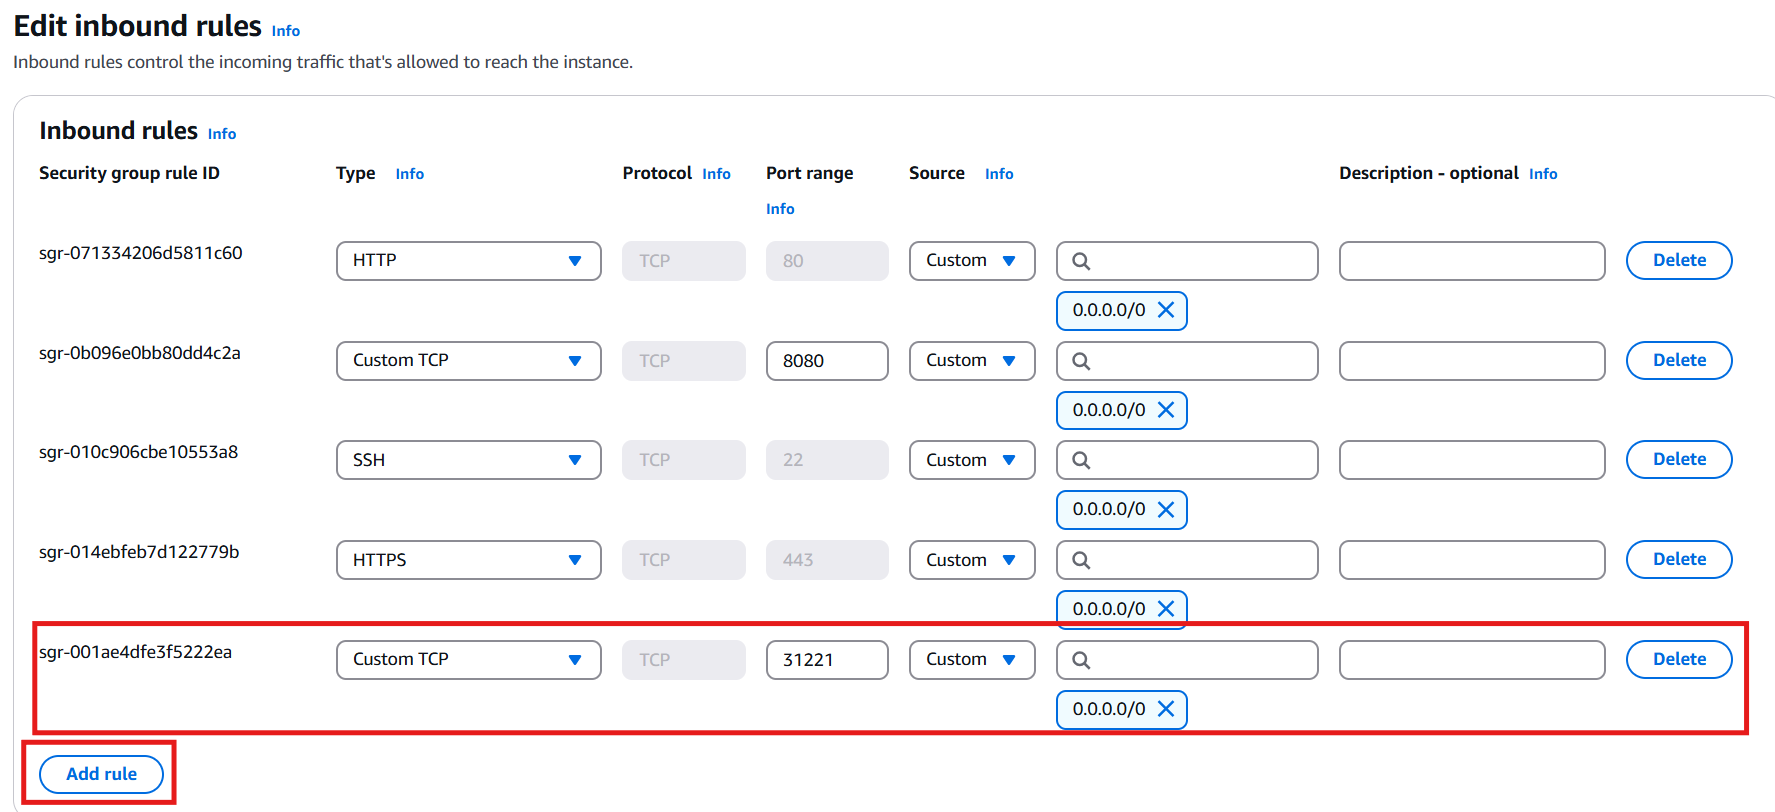
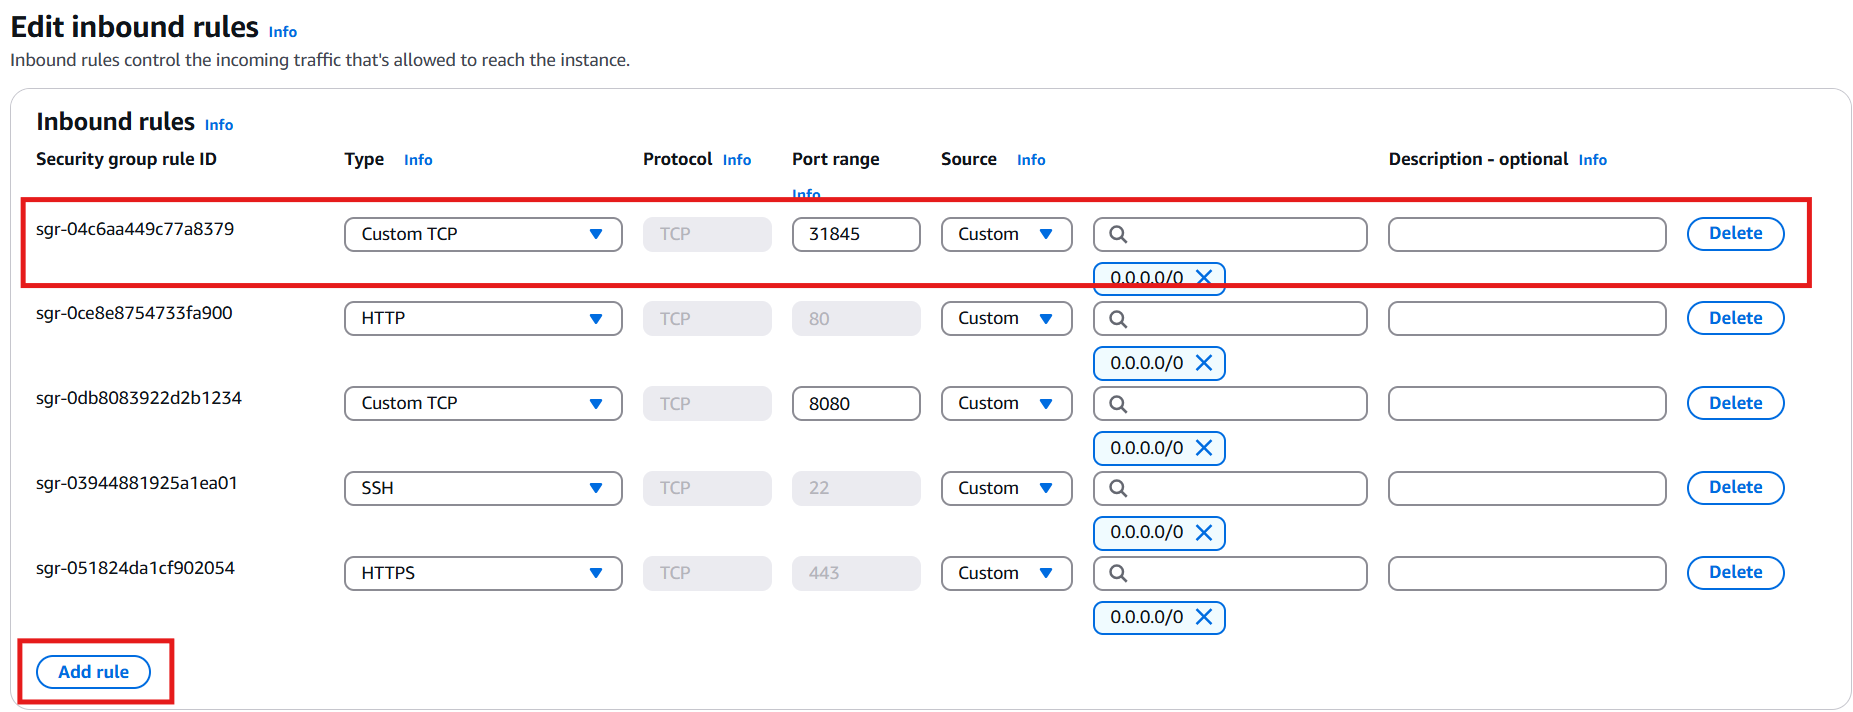
Updated README and any needed pictures

diff --git a/README.md b/README.md
@@ -10,7 +10,7 @@ YAML Files included for:
 
 These YAML Files were not modified manually, they were **auto generated** by following the steps below. YAML Files for the 3 Pods are not included because they could change if a Pod goes down. Machines from HW2 were reused, so most of this will be repeat for HW2.
 
-### **Almost all of this is exactly the same as HW3. Specfic parts, like pictures and python specific commands, will of course be updated.**
+### **Almost all of this is exactly the same as HW3. Specfic parts, like certain pictures and python specific commands, will of course be updated.**
 
 ---
 
@@ -24,7 +24,6 @@ Before beginning this part, please complete part 1 from Kris' branch in this rep
 
 Make sure the following tools are installed:
 - **Git**: Version control
-- **Maven**: To build the application jar file
 - **Docker**: To containerize and run the application
 - **Java**: To run the webserver and for Jenkins
 
@@ -52,6 +51,7 @@ To test the application locally, you can run the image in a container like so:
 ```
 
 Once up and running, you can test the functionality just like in Kris' branch (Part 1) in a web browser or using Postman.
+Access the local running container with this link: [http://localhost:8000/survey/form](http://localhost:8000/survey/form)
 
 Push your image to DockerHub like so:
 ```shell
@@ -64,7 +64,7 @@ Following prompts to sign in, then:
 
 If all the test run successfully, you can now setup your EC2 instances and Kubernetes Cluster like in HW2
 
-### **Steps below were reused from HW2, please make sure to use the correct image tag you created or the one we used above** 
+### **Steps below were reused from HW2, please make sure to use the correct image tag, IP addresses, and port numbers you created. These pictures are an example** 
 
 ### EC2 Instances and Kubernetes Cluster Deployment
 ### 4. Log into you AWS Account:
@@ -226,11 +226,11 @@ Once your machines are online, we can connect to the both of them. Your machines
 
 - To create a Deployment, click Workloads->Deployments and click the create button.
 
-- Fill in custom name, set replica count to 3, paste your Docker Image tag from part 1 in Container Image box. Then scroll and click 'Add Port or Service'. Select Node Port, name it, set Private Container Port to 8080. Leave everything else default. Click create and wait for pods to deploy, it will say active like our cluster before:
+- Fill in custom name, set replica count to 3, paste your Docker Image tag from part 1 in Container Image box. Then scroll and click 'Add Port or Service'. Select Node Port, name it, set Private Container Port to 8000. Leave everything else default. Click create and wait for pods to deploy, it will say active like our cluster before:
 
 ![alt text](images/pic23.png)
 
-- Once you see it active state, click Service Discovery and take a look at the node port you created. Take note of the port number that was chosen randomly since we left that option blank. In out case the port number is 31221.
+- Once you see it active state, click Service Discovery and take a look at the node port you created. Take note of the port number that was chosen randomly since we left that option blank. In out case the port number is 31845.
 
 ![alt text](images/pic24.png)
 
@@ -251,16 +251,16 @@ Once your machines are online, we can connect to the both of them. Your machines
 ![alt text](images/pic27.png)
 
 
-- With this rule added, we can now access our application using the NodePort service we created. Go back to your EC2 instances page. Select the **SECOND** machine, the one that has the actual cluster running on it. Get the Public IPv4 address, for us this is "54.205.232.217", and create the following URL: "http://54.205.232.217. 
+- With this rule added, we can now access our application using the NodePort service we created. Go back to your EC2 instances page. Select the **SECOND** machine, the one that has the actual cluster running on it. Get the Public IPv4 address, for us this is "18.210.92.130", and create the following URL: "http://18.210.92.130/. 
 
-- To access our application, we need to add specific parts to the end of this URL. You need to add ":"NodePort Number"/"desired endpoint"/ to get the responce from the database you wish. In our case, we add ":31221/survey/save" to save the survey data and ":31221/survey/all" to get all surveys from the database. 
+- To access our application, we need to add specific parts to the end of this URL. You need to add ":"NodePort Number"/"desired endpoint"/ to get the responce from the database you wish. In our case, we add ":31845/survey/form/" to get an empty form to fill out and ":31845/survey/list/" to get all surveys from the database. 
 
 **NOTE: Make sure to change form https to http or the link won't work**
 
-- Application at [link](http://54.205.232.217:31221/<endpoint>)
+- Application at: http://54.205.232.217:31221/"endpoint choice from Kris' Branch"
 
 - See Kris' Branch from Part 1 for the possible endpoints.
-- Ex. To get all surveys, visit [link](http://54.205.232.217:31221/survey/all)
+- Ex. To get all surveys, visit [link](http://18.210.92.130:31845/survey/list/)
 
 ![alt text](images/pic28.png)
 
@@ -320,6 +320,7 @@ Start and Enable Jenkids:
 
 ### 11. Access Jenkins Dashboard
 Visit Jenkins Dashboard at: http://"EC2-Public-IP":8080
+Ex: My dashboard is at: http://18.210.92.130:8080/
 
 Get the initial admin password using the following command:
 ```shell
